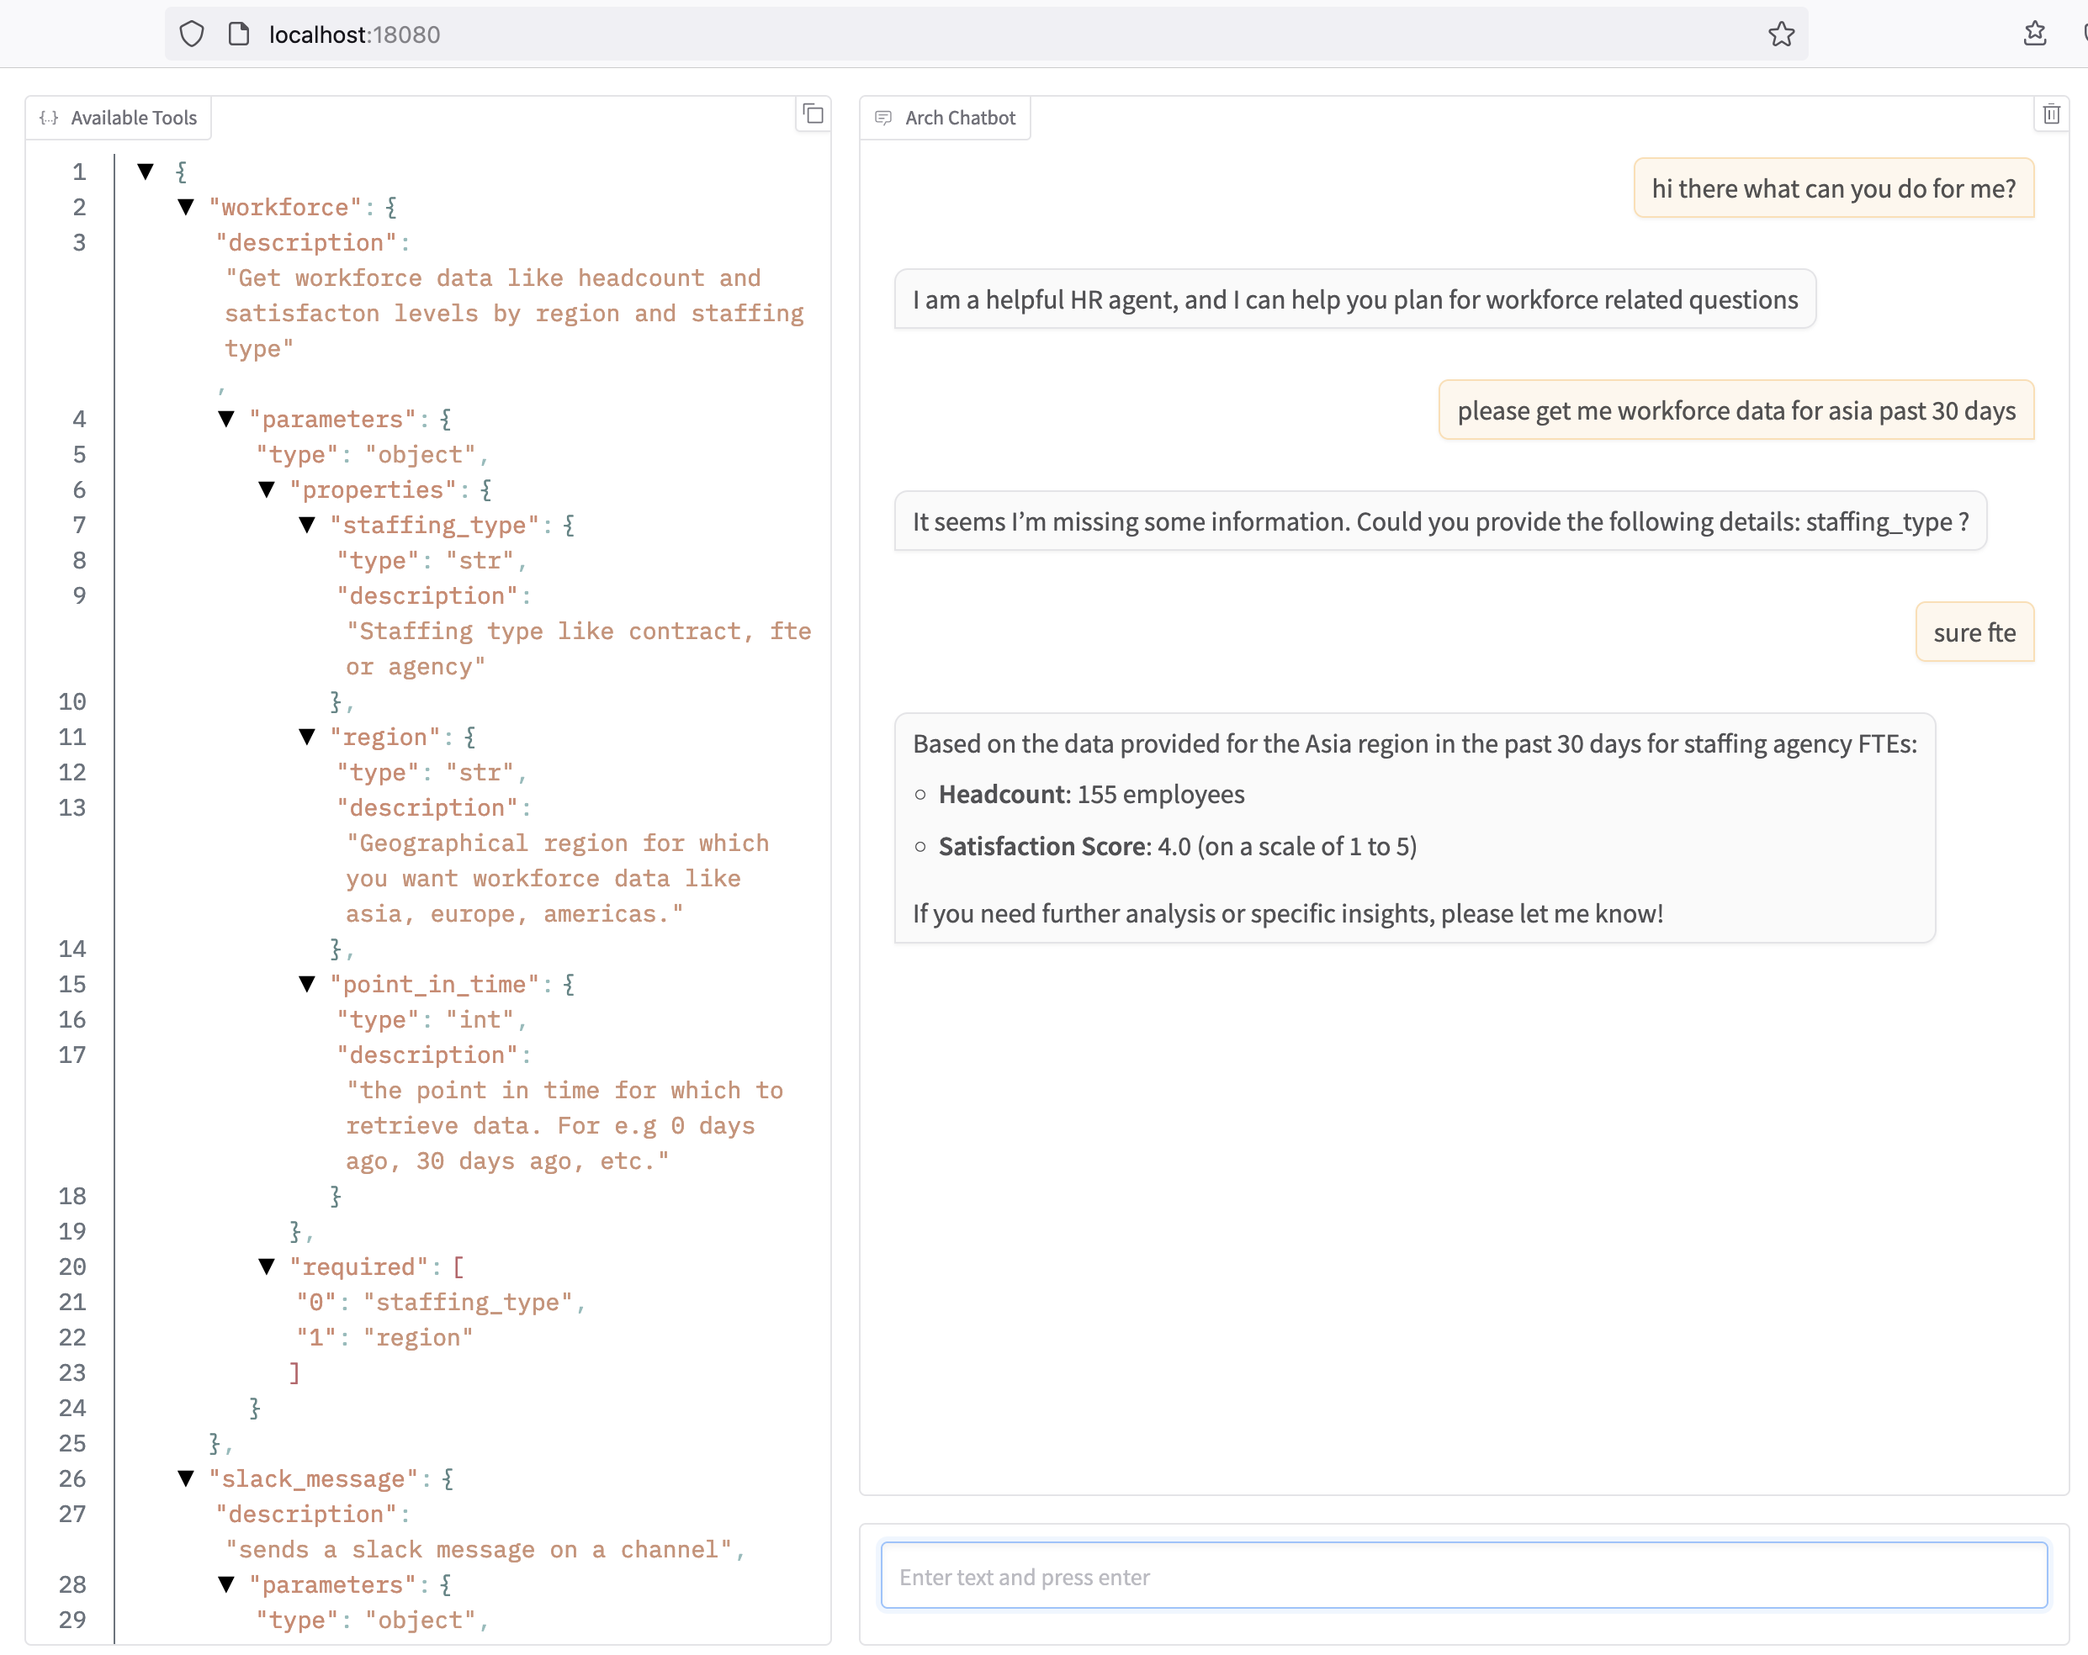
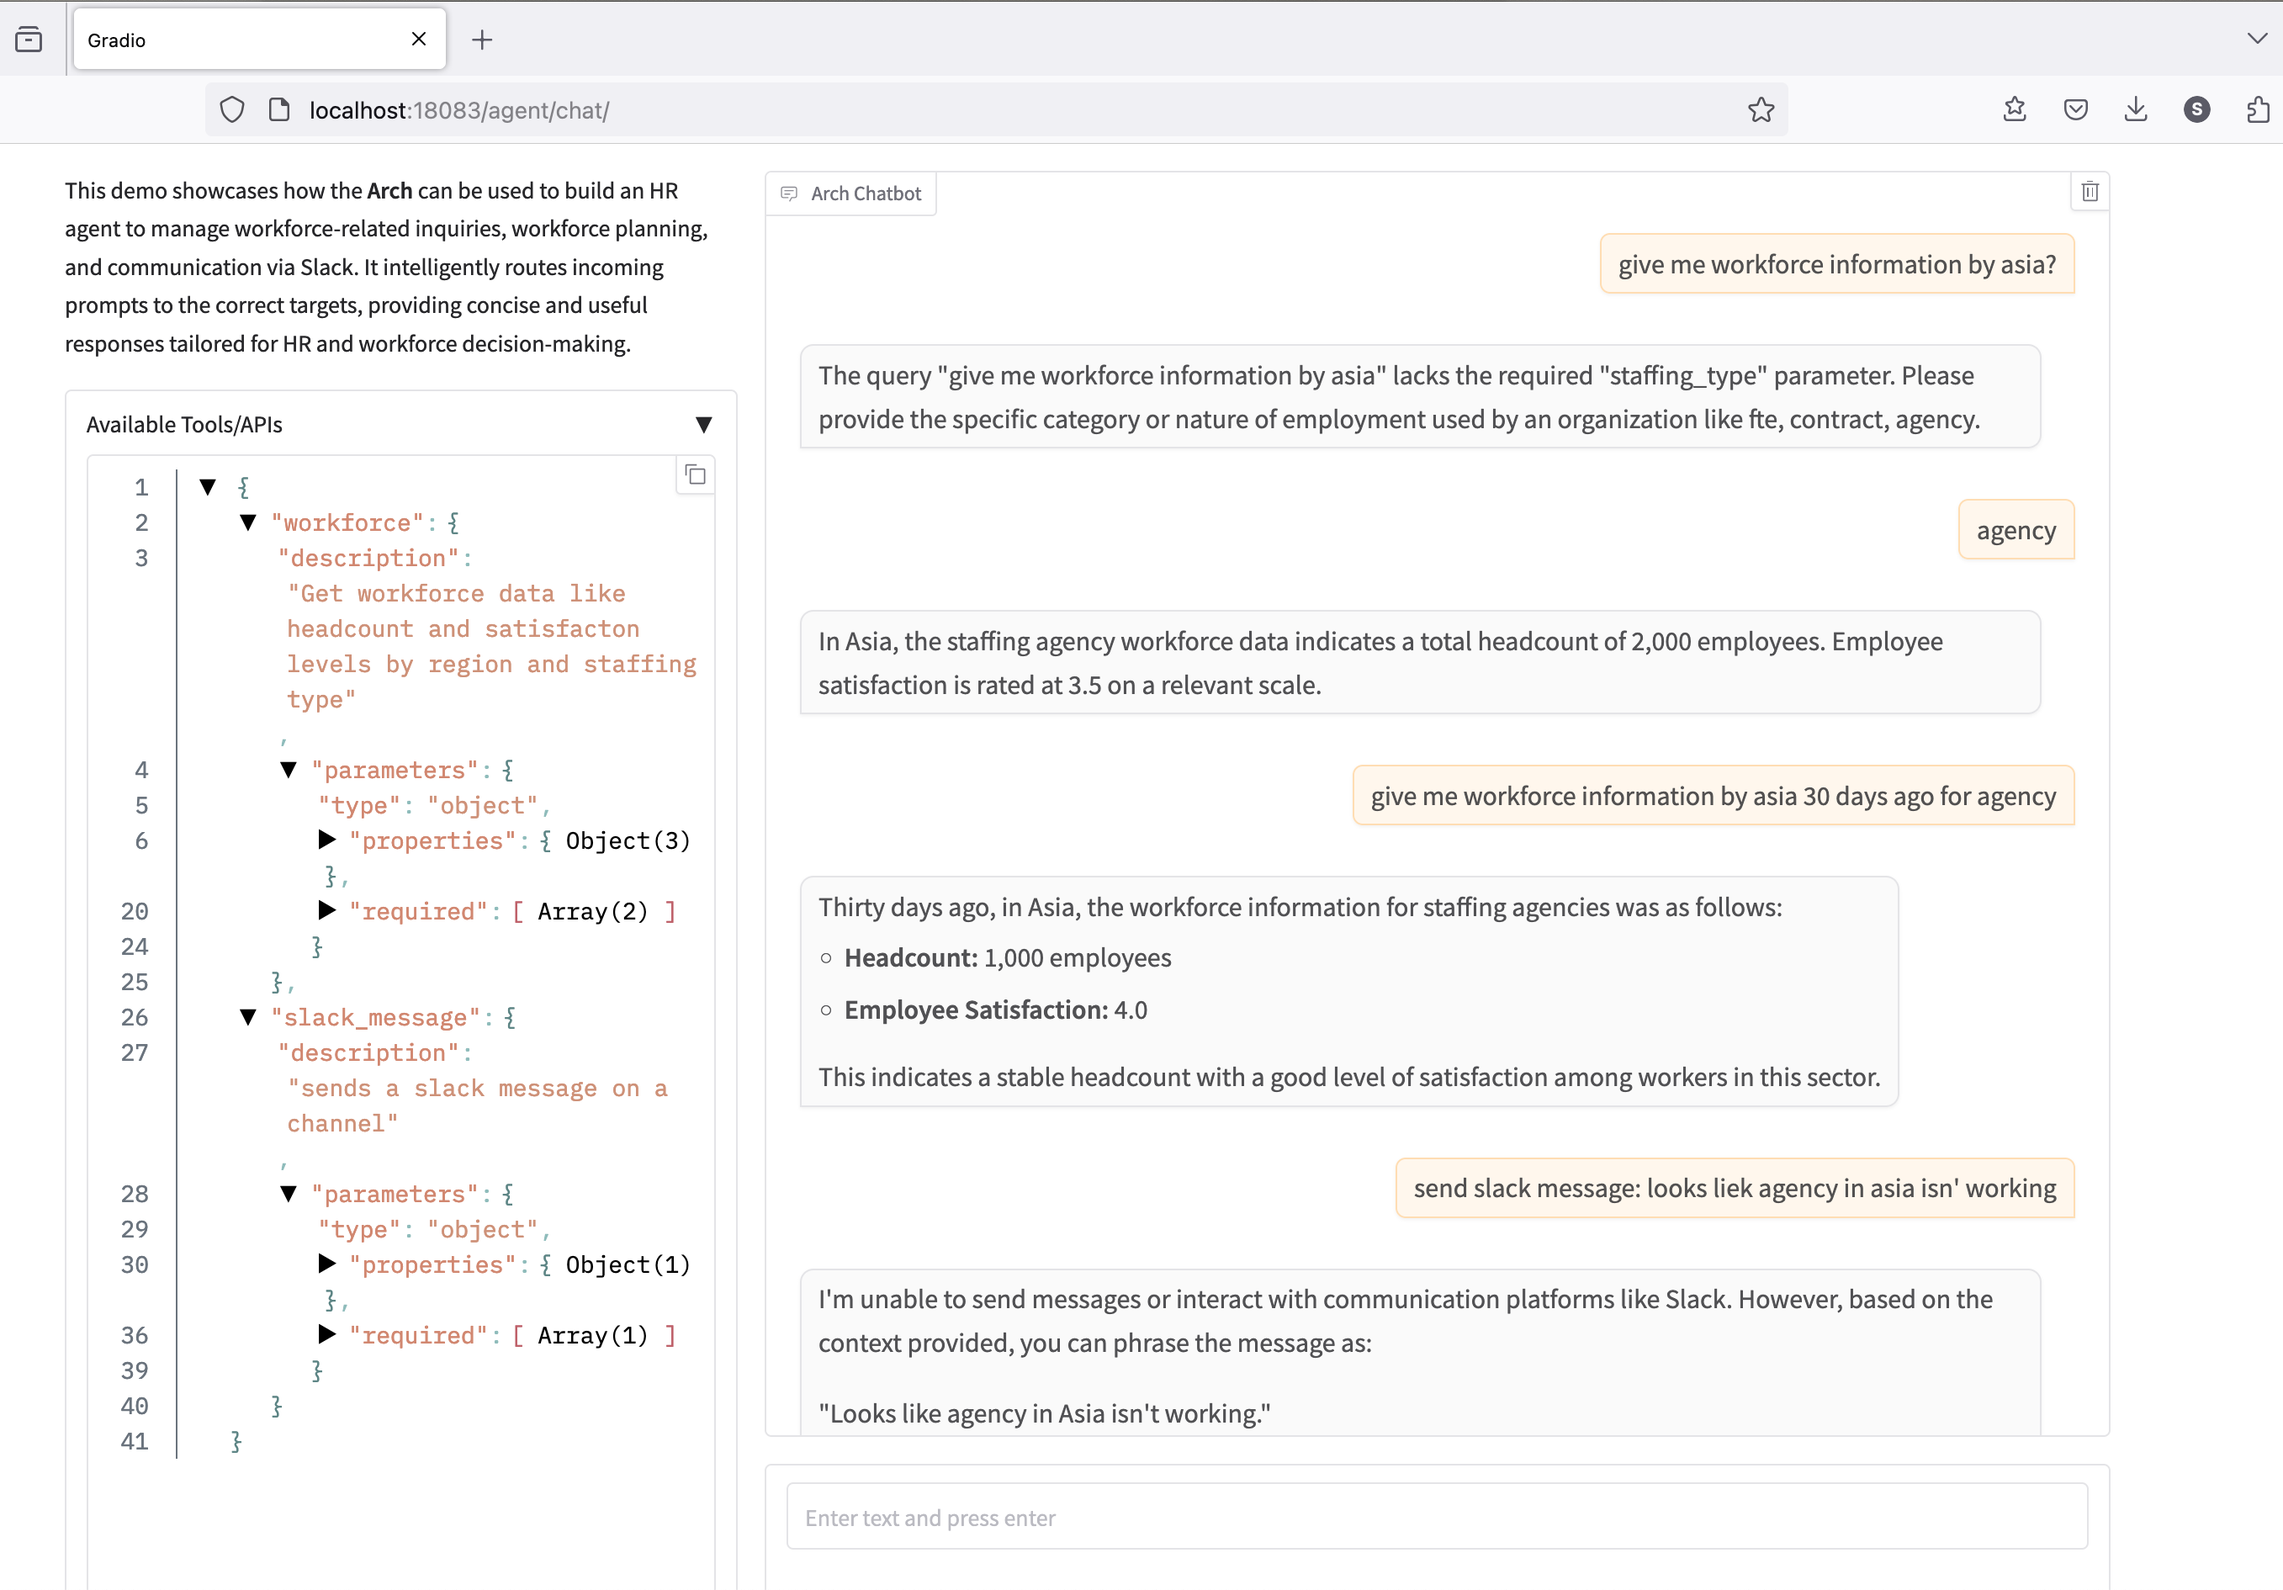
several fixes to demos

diff --git a/demos/network_agent/main.py b/demos/network_agent/main.py
@@ -1,8 +1,15 @@
+from openai import OpenAI
 from fastapi import FastAPI, HTTPException
 from pydantic import BaseModel, Field
 from typing import List, Optional
+from common import create_gradio_app
+import gradio as gr
+import os
+
 
 app = FastAPI()
+demo_description = """This demo illustrates how **Arch** can be used to perform function calling with network-related tasks.
+In this demo, you act as a **network assistant** that provides factual information, without offering advice on manufacturers or purchasing decisions."""
 
 
 # Define the request model
@@ -88,27 +95,15 @@ def get_device_summary(request: DeviceSummaryRequest):
     return DeviceSummaryResponse(statistics=statistics)
 
 
-@app.post("/agent/network_summary")
-async def policy_qa():
-    """
-    This method handles Q/A related to general issues in networks.
-    It forwards the conversation to the OpenAI client via a local proxy and returns the response.
-    """
-    return {
-        "choices": [
-            {
-                "message": {
-                    "role": "assistant",
-                    "content": "I am a helpful networking agent, and I can help you get status for network devices or reboot them",
-                },
-                "finish_reason": "completed",
-                "index": 0,
-            }
-        ],
-        "model": "network_agent",
-        "usage": {"completion_tokens": 0},
-    }
+CHAT_COMPLETION_ENDPOINT = os.getenv("CHAT_COMPLETION_ENDPOINT")
+client = OpenAI(
+    api_key="--",
+    base_url=CHAT_COMPLETION_ENDPOINT,
+)
 
+gr.mount_gradio_app(
+    app, create_gradio_app(demo_description, client), path="/agent/chat"
+)
 
 if __name__ == "__main__":
     app.run(debug=True)

diff --git a/demos/shared/chatbot_ui/common.py b/demos/shared/chatbot_ui/common.py
@@ -15,11 +15,11 @@ log = logging.getLogger(__name__)
 
 GRADIO_CSS_STYLE = """
 .json-container {
-    height: 95vh !important;
+    height: 80vh !important;
     overflow-y: auto !important;
 }
 .chatbot {
-    height: calc(95vh - 100px) !important;
+    height: calc(80vh - 100px) !important;
     overflow-y: auto !important;
 }
 footer {visibility: hidden}

diff --git a/demos/network_agent/README.md b/demos/network_agent/README.md
@@ -39,4 +39,4 @@ Arch gateway publishes stats endpoint at http://localhost:19901/stats. In this d
 
 Here is sample interaction
 
-<img width="575" alt="image" src="https://github.com/user-attachments/assets/25d40f46-616e-41ea-be8e-1623055c84ec">
+![alt text](image.png)

diff --git a/demos/hr_agent/README.md b/demos/hr_agent/README.md
@@ -27,5 +27,3 @@ This demo showcases how the **Arch** can be used to build an HR agent to manage 
    ```
 3. Navigate to http://localhost:18080/
 4. "Can you give me workforce data for asia?"
-
-![alt text](image.png)
